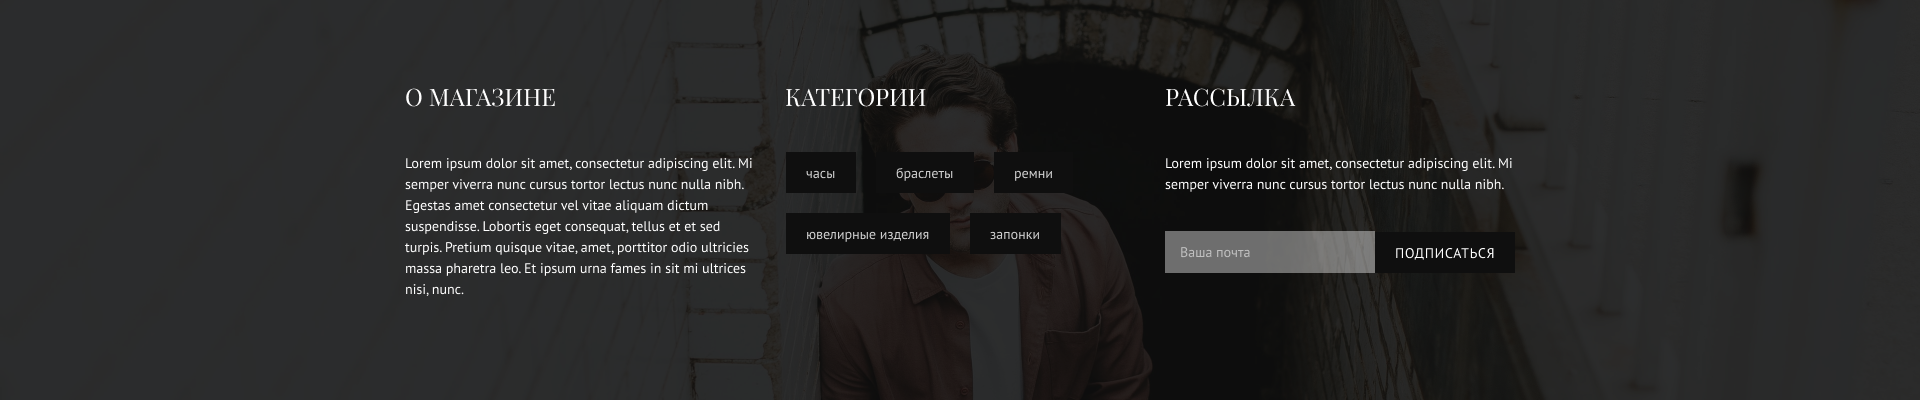
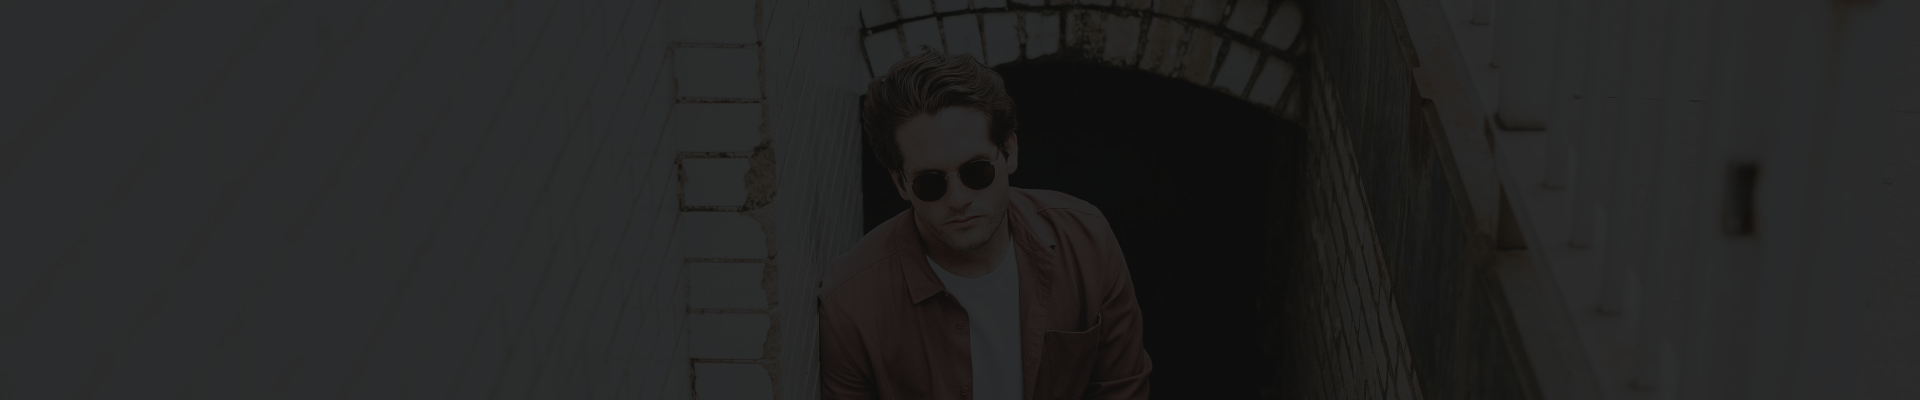
Изменение структуры проекта

diff --git a/index.html b/index.html
@@ -127,10 +127,116 @@
                 <a href="#" class="catalog-btn">Посмотреть коллекцию</a>
             </div>
         </div>
-        <div class="goods"></div>
-        <div class="brands"></div>
-        <div class="footer"></div>
-        <div class="copyright"></div>
+        <div class="goods">
+            <div class="container">
+                <h2>Новые поступления</h2>
+                <div class="goods-list">
+                    <div class="good-item">
+                        <div class="item-img">
+                            <img src="./img/watch.png" alt="" class="item-img">
+                        </div>
+                        <p class="item-name">Louis XVI ATHOS</p>
+                        <p class="item-price">165 000 руб.</p>
+                    </div>
+                    <div class="good-item">
+                        <div class="item-img">
+                            <img src="./img/watch.png" alt="" class="item-img">
+                        </div>
+                        <p class="item-name">Louis XVI ATHOS</p>
+                        <p class="item-price">165 000 руб.</p>
+                    </div>
+                    <div class="good-item">
+                        <div class="item-img">
+                            <img src="./img/watch.png" alt="" class="item-img">
+                        </div>
+                        <p class="item-name">Louis XVI ATHOS</p>
+                        <p class="item-price">165 000 руб.</p>
+                    </div>
+                    <div class="good-item">
+                        <div class="item-img">
+                            <img src="./img/watch.png" alt="" class="item-img">
+                        </div>
+                        <p class="item-name">Louis XVI ATHOS</p>
+                        <p class="item-price">165 000 руб.</p>
+                    </div>
+                    <div class="good-item">
+                        <div class="item-img">
+                            <img src="./img/watch.png" alt="" class="item-img">
+                        </div>
+                        <p class="item-name">Louis XVI ATHOS</p>
+                        <p class="item-price">165 000 руб.</p>
+                    </div>
+                    <div class="good-item">
+                        <div class="item-img">
+                            <img src="./img/watch.png" alt="" class="item-img">
+                        </div>
+                        <p class="item-name">Louis XVI ATHOS</p>
+                        <p class="item-price">165 000 руб.</p>
+                    </div>
+                    <div class="good-item">
+                        <div class="item-img">
+                            <img src="./img/watch.png" alt="" class="item-img">
+                        </div>
+                        <p class="item-name">Louis XVI ATHOS</p>
+                        <p class="item-price">165 000 руб.</p>
+                    </div>
+                    <div class="good-item">
+                        <div class="item-img">
+                            <img src="./img/watch.png" alt="" class="item-img">
+                        </div>
+                        <p class="item-name">Louis XVI ATHOS</p>
+                        <p class="item-price">165 000 руб.</p>
+                    </div>
+                </div>
+            </div>
+        </div>
+        <div class="brands">
+            <div class="container">
+                <h2>Наши бренды</h2>
+                <div class="brands-list">
+                    <img src="./img/brand.png" alt="">
+                    <img src="./img/brand.png" alt="">
+                    <img src="./img/brand.png" alt="">
+                    <img src="./img/brand.png" alt="">
+                </div>
+            </div>
+        </div>
+        <div class="footer">
+            <div class="container">
+                <div class="footer-content">
+                    <div class="footer-part">
+                        <h2>О магазине</h2>
+                        <p class="footer-text">Lorem ipsum dolor sit amet, consectetur adipiscing elit. Mi semper viverra nunc cursus tortor lectus nunc nulla nibh. Egestas amet consectetur vel vitae aliquam dictum suspendisse. Lobortis eget consequat, tellus et et sed turpis. Pretium quisque vitae, amet, porttitor odio ultricies massa pharetra leo. Et ipsum urna fames in sit mi ultrices nisi, nunc.</p>
+                    </div>
+                    <div class="footer-part">
+                        <h2>Категории</h2>
+                        <ul class="footer-nav">
+                            <li class="footer-nav-item"><a href="#">часы</a></li>
+                            <li class="footer-nav-item"><a href="#">браслеты</a></li>
+                            <li class="footer-nav-item"><a href="#">ремни</a></li>
+                            <li class="footer-nav-item"><a href="#">ювелирные изделия</a></li>
+                            <li class="footer-nav-item"><a href="#">запонки</a></li>
+                        </ul>
+                    </div>
+                    <div class="footer-part">
+                        <h2>Рассылка</h2>
+                        <p class="footer-text">Lorem ipsum dolor sit amet, consectetur adipiscing elit. Mi semper viverra nunc cursus tortor lectus nunc nulla nibh.</p>
+                        <form action="" id="form" class="footer-form">
+                            <input type="mail" name="mail" id="mail" placeholder="Ваша почта">
+                            <input type="button" value="Подписаться" id="footer-button">
+                        </form>
+                    </div>
+                </div>
+            </div>
+        </div>
+        <div class="copyright">
+            <div class="container">
+                <div class="copyright-content">
+                    <p>© 2020 Все права защищены</p>
+                    <p>Сделано Figma.info</p>
+                </div>
+            </div>
+        </div>
     </div>
 
     <script src="./js/header-burger-script.js"></script>

diff --git a/css/style.css b/css/style.css
@@ -8,7 +8,7 @@ body {
     color: #fff;
 }
 .container {
-    max-width: 1100px;
+    max-width: 1110px;
     margin: 0 auto;
 }
 .info {
@@ -149,6 +149,7 @@ p.header-text {
 .new-collection {
     background-color: #000;
     display: flex;
+    flex-wrap: wrap;
 }
 .new-coll-left-part, .new-coll-right-part {
     padding-bottom: 43px;
@@ -167,6 +168,7 @@ p.header-text {
     font-family: 'Playfair Display', serif;
     position: relative;
     margin-bottom: 100px;
+    cursor: default;
 }
 .new-coll-left-part h2::after {
     position: absolute;
@@ -184,7 +186,7 @@ p.header-text {
     margin: 0 80px;
     justify-content: space-between;
 }
-.new-coll-item {
+.new-coll-item, .good-item {
     margin-bottom: 50px;
 }
 .item-img {
@@ -209,8 +211,6 @@ p.item-price {
     font-weight: bold;
 }
 
-
-
 .new-coll-right-part {
     background-image: url('../img/new-collection.png');
     background-size: cover;
@@ -230,6 +230,7 @@ p.item-price {
     font-family: 'Playfair Display', serif;
     position: relative;
     margin-bottom: 60px;
+    cursor: default;
 }
 .new-coll-right-part h2::after {
     position: absolute;
@@ -257,6 +258,7 @@ a.catalog-btn {
 .collection-2018 {
     background-color: #000;
     display: flex;
+    flex-wrap: wrap;
 }
 
 .collection-left {
@@ -278,6 +280,7 @@ a.catalog-btn {
     font-family: 'Playfair Display', serif;
     position: relative;
     margin-bottom: 80px;
+    cursor: default;
 }
 .collection-right h2::after {
     position: absolute;
@@ -294,5 +297,146 @@ p.text-about-coll {
     line-height: 1.5;
     text-align: center;
     margin-bottom: 61px;
+    cursor: default;
 }
 
+.goods {
+    background-color: #000;
+    padding-top: 120px;
+    padding-bottom: 100px;
+}
+.goods-list {
+    display: flex;
+    flex-wrap: wrap;
+    margin: 0 80px;
+    justify-content: space-between;
+}
+.goods h2  {
+    font-weight: bold;
+    font-size: 36px;
+    text-transform: uppercase;
+    text-align: center;
+    font-family: 'Playfair Display', serif;
+    position: relative;
+    margin-bottom: 120px;
+    cursor: default;
+}
+.goods h2::after {
+    position: absolute;
+    content: '';
+    width: 120px;
+    height: 2px;
+    bottom: -60px;
+    left: 44%;
+    background-color: grey;
+}
+
+.brands {
+    background-color: #0F0F0F;
+    padding-top: 60px;
+    padding-bottom: 74px;
+}
+.brands h2  {
+    font-weight: bold;
+    font-size: 36px;
+    text-transform: uppercase;
+    text-align: center;
+    font-family: 'Playfair Display', serif;
+    position: relative;
+    margin-bottom: 80px;
+    cursor: default;
+}
+.brands h2::after {
+    position: absolute;
+    content: '';
+    width: 120px;
+    height: 2px;
+    bottom: -40px;
+    left: 44%;
+    background-color: grey;
+}
+.brands-list {
+    display: flex;
+    justify-content: space-between;
+    flex-wrap: wrap;
+}
+
+.footer {
+    background-image: url('../img/footer-background.png');
+    padding-top: 100px;
+    padding-bottom: 100px;
+}
+.footer-content {
+    display: flex;
+    justify-content: space-between;
+    flex-wrap: wrap;
+}
+.footer-part {
+    width: 350px;
+}
+
+.footer-content h2 {
+    font-size: 24;
+    text-transform: uppercase;
+    margin-bottom: 40px;
+    font-family: 'Playfair Display', serif;
+    font-weight: normal;
+}
+p.footer-text {
+    
+    font-size: 14px;
+    line-height: 1.5;
+    font-weight: 400;
+}
+ul.footer-nav {
+    display: flex;
+    flex-wrap: wrap;
+}
+li.footer-nav-item {
+    padding: 10px 20px;
+    background-color: #0F0F0F;
+    margin-right: 20px;
+    margin-bottom: 20px;
+}
+li.footer-nav-item a {
+    color: #fff
+}
+
+.footer-form {
+    margin-top: 37px;
+    display: flex;
+}
+#mail {
+    fill: #fff;
+    opacity: 0.4;
+    width: 200px;
+    height: 42px;
+    border: none;
+}
+#mail::placeholder {
+    padding-left: 10px;
+    color: grey;
+}
+#footer-button {
+    width: 140px;
+    height: 42px;
+    margin: 0;
+    border: none;
+    color: white;
+    background: #000;
+}
+
+
+.copyright {
+    background-color: #000;
+    padding: 17px 0;
+    color: #fff;
+}
+.copyright-content {
+    display: flex;
+    justify-content: space-between;
+}
+.copyright-content p {
+    color: #fff;
+    font-size: 12px;
+}
